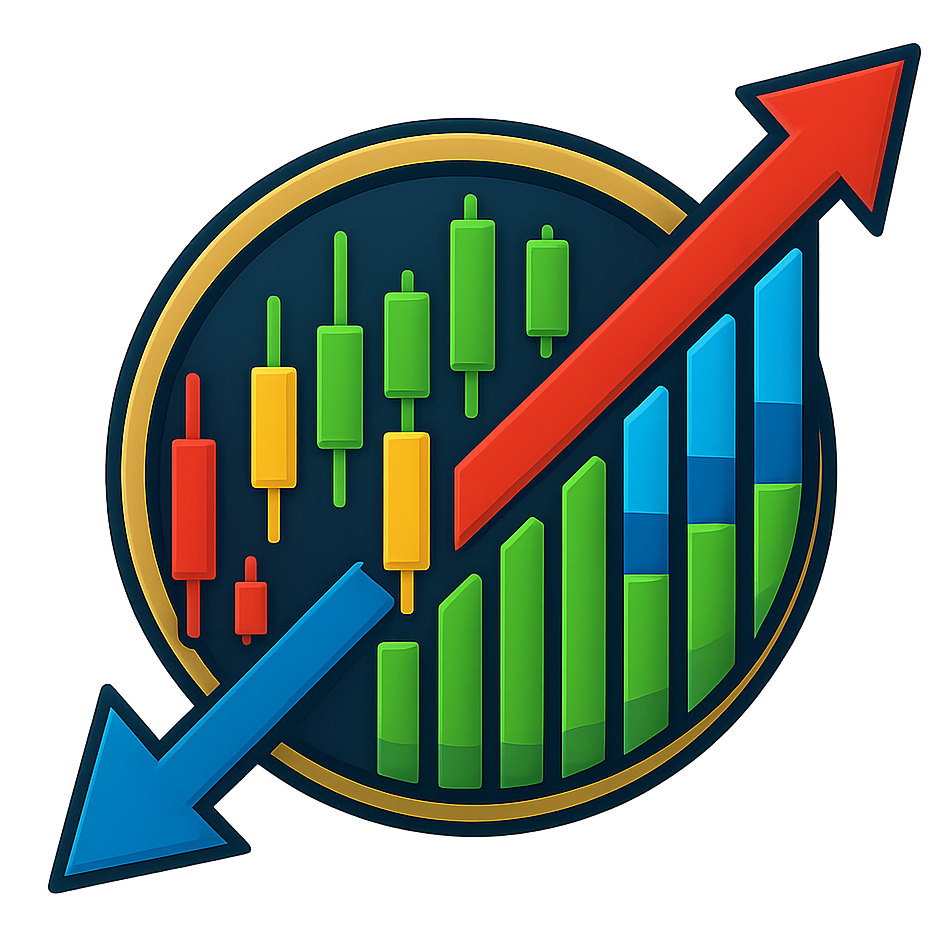
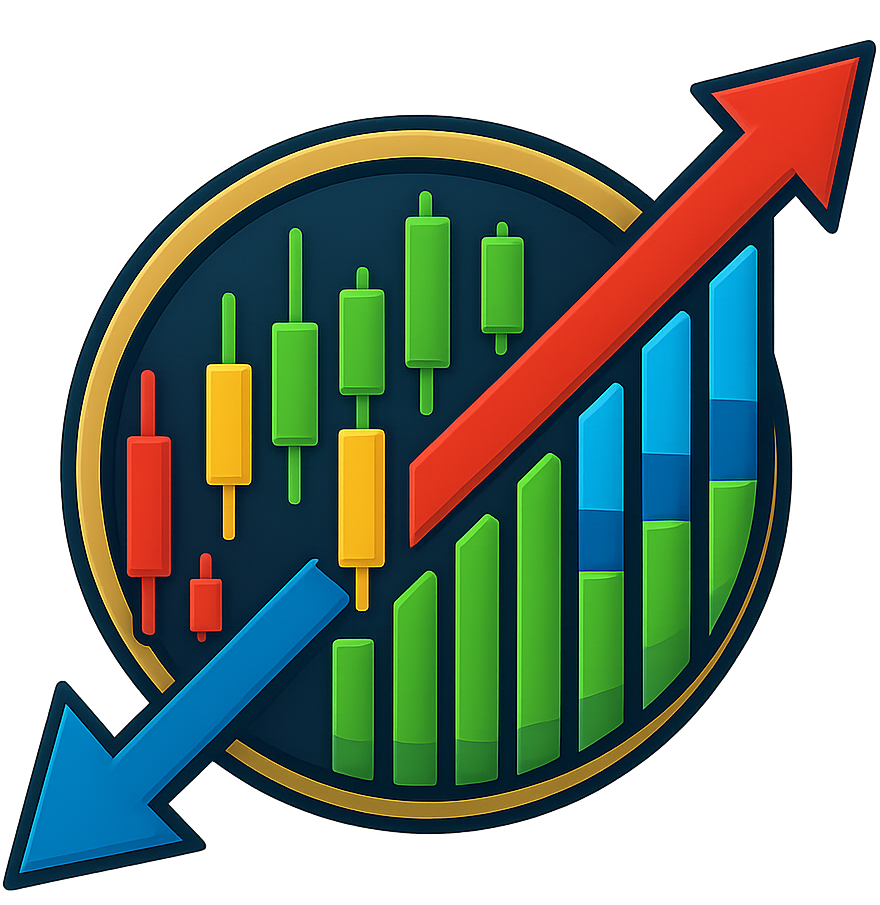
Fix social tab | Ad reward real options

diff --git a/lib/ui/store_page.dart b/lib/ui/store_page.dart
@@ -23,14 +23,21 @@ class _StorePageState extends State<StorePage> with TickerProviderStateMixin {
   final FlutterSecureStorage _storage = const FlutterSecureStorage();
   late AnimationController _progressController;
   List<Map<String, dynamic>> _buyOptions = [];
+  List<Map<String, dynamic>> _adRewardOptions = [];
   Timer? _refreshTimer;
+  int? _rewardPrize;
 
   Future<void> loadData() async {
-    final currency = await _storage.read(key: 'currency') ?? 'eur';
-    final buyOptionsResponse = await Common().postRequestWrapper('Info', 'BuyOptions', {'id': currency});
+    final currency = await _storage.read(key: 'currency') ?? 'eur'; //TODO
+    final buyOptionsResponse = await Common().postRequestWrapper('Info', 'StoreOptions', {'currency': currency, 'type' : 'buy'});
+    final adRewardOptionsResponse = await Common().postRequestWrapper('Info', 'StoreOptions', {'currency': 'eur', 'type': 'ad_reward'}); //TODO Currency
+
+
 
     setState(() {
       _buyOptions = List<Map<String, dynamic>>.from(buyOptionsResponse['body'] as Iterable);
+      _adRewardOptions = List<Map<String, dynamic>>.from(adRewardOptionsResponse['body'] as Iterable);
+      _rewardPrize = _adRewardOptions[0]['coins'] ?? 50;
     });
   }
 
@@ -98,7 +105,7 @@ class _StorePageState extends State<StorePage> with TickerProviderStateMixin {
     }
   }
 
-  Future<void> _showRewardedAd(double coins, String localizedWarning) async {
+  Future<void> _showRewardedAd(int coins, String localizedWarning) async {
     final userId = await _storage.read(key: 'sessionToken');
     if (userId == null) return;
 
@@ -342,56 +349,65 @@ class _StorePageState extends State<StorePage> with TickerProviderStateMixin {
                 Stack(
                   alignment: Alignment.center,
                   children: [
-                    ClipRRect(
-                      borderRadius: BorderRadius.circular(10),
-                      child: AnimatedBuilder(
-                        animation: _progressController,
-                        builder: (context, child) {
-                          return LinearProgressIndicator(
-                            value: _isAdLoaded ? 1 : _progressController.value,
-                            minHeight: 56,
-                            backgroundColor: Colors.grey.shade800,
-                            valueColor: AlwaysStoppedAnimation<Color>(Colors.purple),
-                          );
-                        },
-                      ),
-                    ),
-                    ElevatedButton.icon(
-                      style: ElevatedButton.styleFrom(
-                        minimumSize: const Size(double.infinity, 56),
-                        backgroundColor: Colors.transparent,
-                        shadowColor: Colors.transparent,
-                        padding: const EdgeInsets.symmetric(vertical: 16.0, horizontal: 10.0),
-                        shape: RoundedRectangleBorder(borderRadius: BorderRadius.circular(10)),
-                      ),
-                      onPressed: _isAdLoaded
-                          ? () {
-                        Common().vibrate(40, 30);
-                        _showRewardedAd(
-                          50,
-                          Common().interpolate(
-                            strings.get('youWonCoins') ?? 'You won {coins}',
-                            {'coins': '50'}, //TODO
+                    if (_rewardPrize != null) ...
+                    [
+                        ClipRRect(
+                          borderRadius: BorderRadius.circular(10),
+                          child: AnimatedBuilder(
+                            animation: _progressController,
+                            builder: (context, child) {
+                              return LinearProgressIndicator(
+                                value: _isAdLoaded ? 1 : _progressController.value,
+                                minHeight: 56,
+                                backgroundColor: Colors.grey.shade800,
+                                valueColor: AlwaysStoppedAnimation<Color>(Colors.purple),
+                              );
+                            },
                           ),
-                        );
-                      }
-                          : null,
-                      icon: const Icon(Icons.ondemand_video, size: 34),
-                      label: Row(
-                        mainAxisSize: MainAxisSize.min,
-                        children: [
-                          Text(
-                            Common().interpolate(
-                              strings.get('earnCoins') ?? 'Watch an Ad to Earn {coins}🪙',
-                              {'coins': '50'},
-                            ),
-                            style: GoogleFonts.montserrat(fontSize: 18, fontWeight: FontWeight.w300, color: Colors.white),
+                        ),
+                        ElevatedButton.icon(
+                          style: ElevatedButton.styleFrom(
+                            minimumSize: const Size(double.infinity, 56),
+                            backgroundColor: Colors.transparent,
+                            shadowColor: Colors.transparent,
+                            padding: const EdgeInsets.symmetric(vertical: 16.0, horizontal: 10.0),
+                            shape: RoundedRectangleBorder(borderRadius: BorderRadius.circular(10)),
                           ),
-                          const SizedBox(width: 8),
-                          Image.asset('assets/coin.png', width: 18, height: 18),
-                        ],
-                      ),
-                    ),
+                          onPressed: _isAdLoaded
+                              ? () {
+                            Common().vibrate(40, 30);
+                            _showRewardedAd(
+                              _rewardPrize ?? 15,
+                              Common().interpolate(
+                                strings.get('youWonCoins') ?? 'You won {coins}',
+                                {'coins': _rewardPrize.toString()}, //TODO
+                              ),
+                            );
+                          }
+                              : null,
+                          icon: const Icon(Icons.ondemand_video, size: 34),
+                          label: Row(
+                            mainAxisSize: MainAxisSize.min,
+                            children: [
+                              Text(
+                                Common().interpolate(
+                                  strings.get('earnCoins') ?? 'Watch an Ad to Earn {coins}🪙',
+                                  {'coins': _rewardPrize.toString()},
+                                ),
+                                style: GoogleFonts.montserrat(fontSize: 18, fontWeight: FontWeight.w300, color: Colors.white),
+                              ),
+                              const SizedBox(width: 8),
+                              Image.asset('assets/coin.png', width: 18, height: 18),
+                            ],
+                          ),
+                        )
+                    ]
+                    else ...
+                    [
+                      Center(
+                        child: CircularProgressIndicator(color: Colors.grey)
+                      )
+                    ]
                   ],
                 ),
               ],

diff --git a/lib/ui/layout_page.dart b/lib/ui/layout_page.dart
@@ -260,24 +260,23 @@ class MainMenuPageState extends State<MainMenuPage> {
                       unselectedItemColor: Colors.white30,
                       showUnselectedLabels: false,
                       showSelectedLabels: true,
-                      iconSize: 32,
+                      iconSize: 35,
                       items: <BottomNavigationBarItem>[
                         BottomNavigationBarItem(
-                          icon: Icon(Icons.home_outlined),
-                          activeIcon: Icon(Icons.home),
+                          icon: Icon(FontAwesomeIcons.house),
                           label: strings?.get('home') ?? "Home",
                         ),
                         BottomNavigationBarItem(
-                          icon: Icon(FontAwesomeIcons.peopleGroup),
+                          icon: Icon(FontAwesomeIcons.earthAmericas),
                           label: "Social",
                         ),
                         BottomNavigationBarItem(
-                          icon: Container(
-                            width: 34,
+                          icon: SizedBox(
+                            width: 40,
                             child: Image.asset('assets/new_icon.png'),
                           ),
-                          activeIcon: Container(
-                            width: 27,
+                          activeIcon: SizedBox(
+                            width: 34,
                             child: Image.asset('assets/new_icon.png'),
                           ),
                           label: strings?.get('liveMarkets') ?? 'Live Markets',
@@ -291,10 +290,17 @@ class MainMenuPageState extends State<MainMenuPage> {
                               ? CircleAvatar(
                                   backgroundImage:
                                       MemoryImage(_profilePicBytes!),
-                                  radius: 16, // Reducción del tamaño del avatar
+                                  radius: 20, // Reducción del tamaño del avatar
                                 )
                               : Icon(Icons.account_circle_outlined)),
-                          label: _username,
+                          activeIcon: (_profilePicBytes != null
+                              ? CircleAvatar(
+                            backgroundImage:
+                            MemoryImage(_profilePicBytes!),
+                            radius: 15, // Reducción del tamaño del avatar
+                          )
+                              : Icon(Icons.account_circle_outlined)),
+                          label: strings!.get('profileTitle') ?? "Your profile",
                         ),
                       ],
                       currentIndex: _controller.selectedIndexNotifier.value,

diff --git a/lib/locale/localized_texts.dart b/lib/locale/localized_texts.dart
@@ -12,6 +12,7 @@ class LocalizedStrings {
   static final Map<String?, Map<String?, String?>> localizedValues = {
     'en': {
       // Inglés
+      'profileTitle': 'Your profile',
       'exactPrice': 'Exact price',
       'viewChart': 'View chart',
       'name': 'Name',
@@ -270,6 +271,7 @@ class LocalizedStrings {
     },
     'es': {
       // Español
+      'profileTitle': 'Tu perfil',
       'exactPrice': 'Precio exacto',
       'viewChart': 'Ver gráfico',
       'name': 'Nombre',
@@ -529,6 +531,7 @@ class LocalizedStrings {
     },
     'fr': {
       // Francés
+      'profileTitle': 'Ton profil',
       'exactPrice': 'Prix exact',
       'viewChart': 'Voir le graphique',
       'name': 'Nom',
@@ -791,6 +794,7 @@ class LocalizedStrings {
     },
     'it': {
       // Italiano
+      'profileTitle': 'Tuo profilo',
       'exactPrice': 'Prezzo esatto',
       'viewChart': 'Vedi grafico',
       'name': 'Nome',
@@ -1051,6 +1055,7 @@ class LocalizedStrings {
     },
     'de': {
       // Alemán
+      'profileTitle': 'Dein Profil',
       'exactPrice': 'Exakter Preis',
       'viewChart': 'Diagramm',
       'name': 'Name',

diff --git a/lib/ui/exchange_page.dart b/lib/ui/exchange_page.dart
@@ -30,7 +30,8 @@ class ExchangePageState extends State<ExchangePage> {
     final userId = await _storage.read(key: 'sessionToken');
     final points = await _storage.read(key: 'points') ?? '0';
     final pendingBalanceResponse = await Common().postRequestWrapper('Info', 'PendingBalance', {'id': userId});
-    final exchangeOptionsResponse = await Common().postRequestWrapper('Info', 'ExchangeOptions', {'id': 'eur'}); //TODO Currency
+    final exchangeOptionsResponse = await Common().postRequestWrapper('Info', 'StoreOptions', {'currency': 'eur', 'type': 'exchange'}); //TODO Currency
+
 
     setState(() {
         _userPoints = points;
@@ -41,6 +42,8 @@ class ExchangePageState extends State<ExchangePage> {
 
         }
         _exchangeOptions = List<Map<String, dynamic>>.from(exchangeOptionsResponse['body'] as Iterable);
+
+
   });
   }
 

diff --git a/lib/config/config.dart b/lib/config/config.dart
@@ -2,7 +2,7 @@ class Config {
 
 
   static const PUBLIC_DOMAIN = 'api.betstrading.online';
-  static const CODE_VERSION = '25.233.1';
+  static const CODE_VERSION = '25.238.1';
   static const ADMOB_APP_ID = 'ca-app-pub-2465898294053562/1629478765';
   static const ADMOB_AD_TOKEN = 'ca-app-pub-2465898294053562/4804536511';
   //TODO: Use only ADMBOD_AD_TOKEN (not _TEST) in production

diff --git a/lib/services/AuthService.dart b/lib/services/AuthService.dart
@@ -244,7 +244,7 @@ class AuthService {
   }
 
   //TODO: Delete when using real ADMOB_TOKEN with SSV
-  Future<bool> addCoins(String id, double coins) async {
+  Future<bool> addCoins(String id, int coins) async {
     final response = await Common().postRequestWrapper('Payments', 'AddCoins', {'user_id': id, 'reward': coins});
 
     if (response['statusCode'] == 200) {
